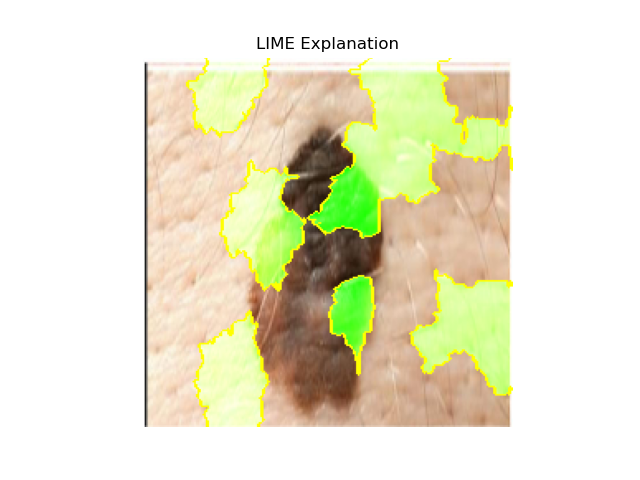
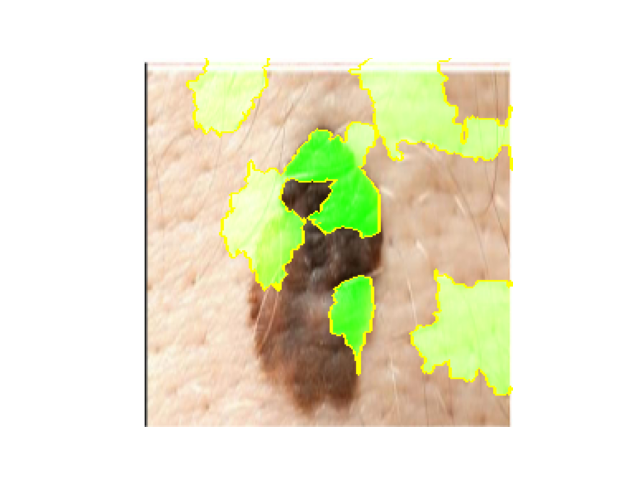
some changes

diff --git a/app.py b/app.py
@@ -158,7 +158,7 @@ def analyze_image():
         
         lime_explanation_path = os.path.join('static/explanations', f"{file.filename.split('.')[0]}_lime_explanation.png")
         plt.imshow(mark_boundaries(temp, mask))
-        plt.title("LIME Explanation")
+        # plt.title("LIME Explanation")
         plt.axis('off')
         plt.savefig(lime_explanation_path)
         plt.close()
@@ -178,7 +178,7 @@ def analyze_image():
     plt.figure(figsize=(12, 6))
     plt.imshow(image_for_segmentation)
     plt.axis('off')
-    plt.title('Original Image')
+    # plt.title('Original Image')
     plt.tight_layout()
     plt.savefig(plot_path)
     plt.close()
